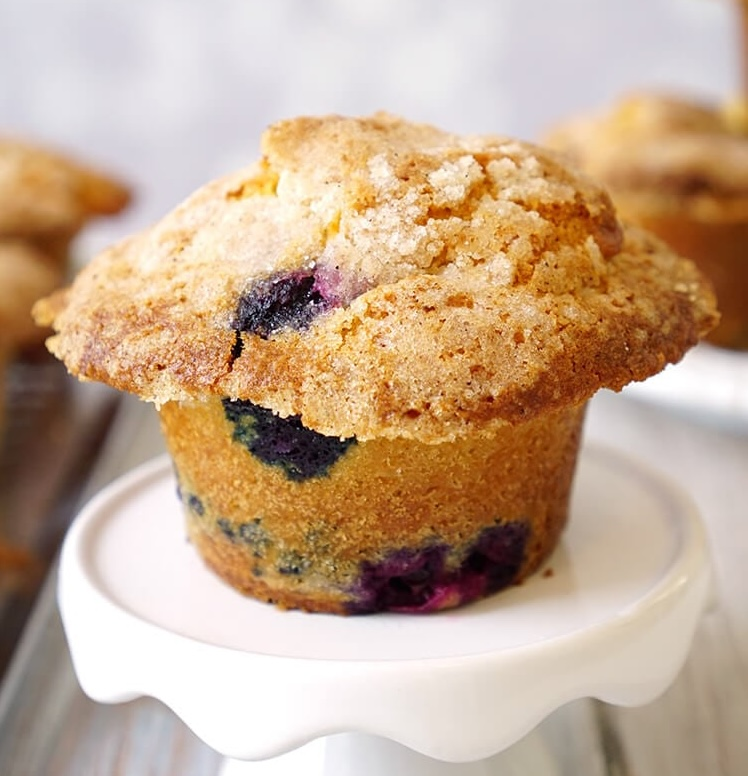
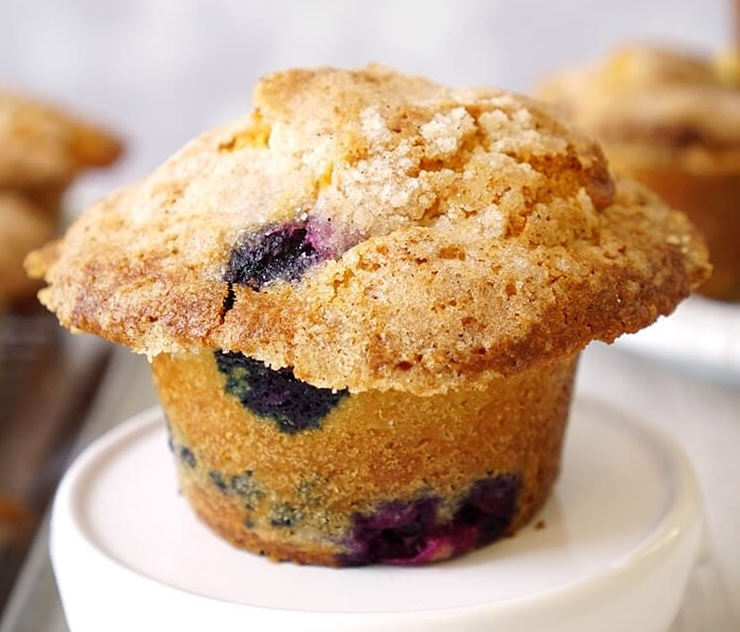
fixed images and added styling to item name and price

diff --git a/app/components/bakeryView.tsx b/app/components/bakeryView.tsx
@@ -3,12 +3,13 @@
 import { useEffect, useState } from 'react';
 import { MenuItem } from './types';
 import MenuView from './menuView';
+import Image from 'next/image';
 
 const BakeryView = ({ data }: { data: MenuItem[] }) => {
   const [category, setCategory] = useState('pastries');
   const [originaldata, setCurrentData] = useState(data);
   const [currentSelection, setCurrentSelection] = useState(originaldata);
-
+  console.log(currentSelection.sort());
   return (
     <div className='text-center m-auto'>
       <div>

diff --git a/app/components/menuView.tsx b/app/components/menuView.tsx
@@ -5,7 +5,7 @@ import Image from 'next/image';
 const MenuView = ({ id, name, description, price, type, image }: MenuItem) => {
   return (
     <div className='py-5'>
-      <div className='h-[400px] w-[500px] relative m-auto overflow-hidden'>
+      <div className='h-[333px] w-[500px] relative m-auto overflow-hidden'>
         <Image
           src={`/menu/${image}.jpg`}
           alt={`${name} picture`}
